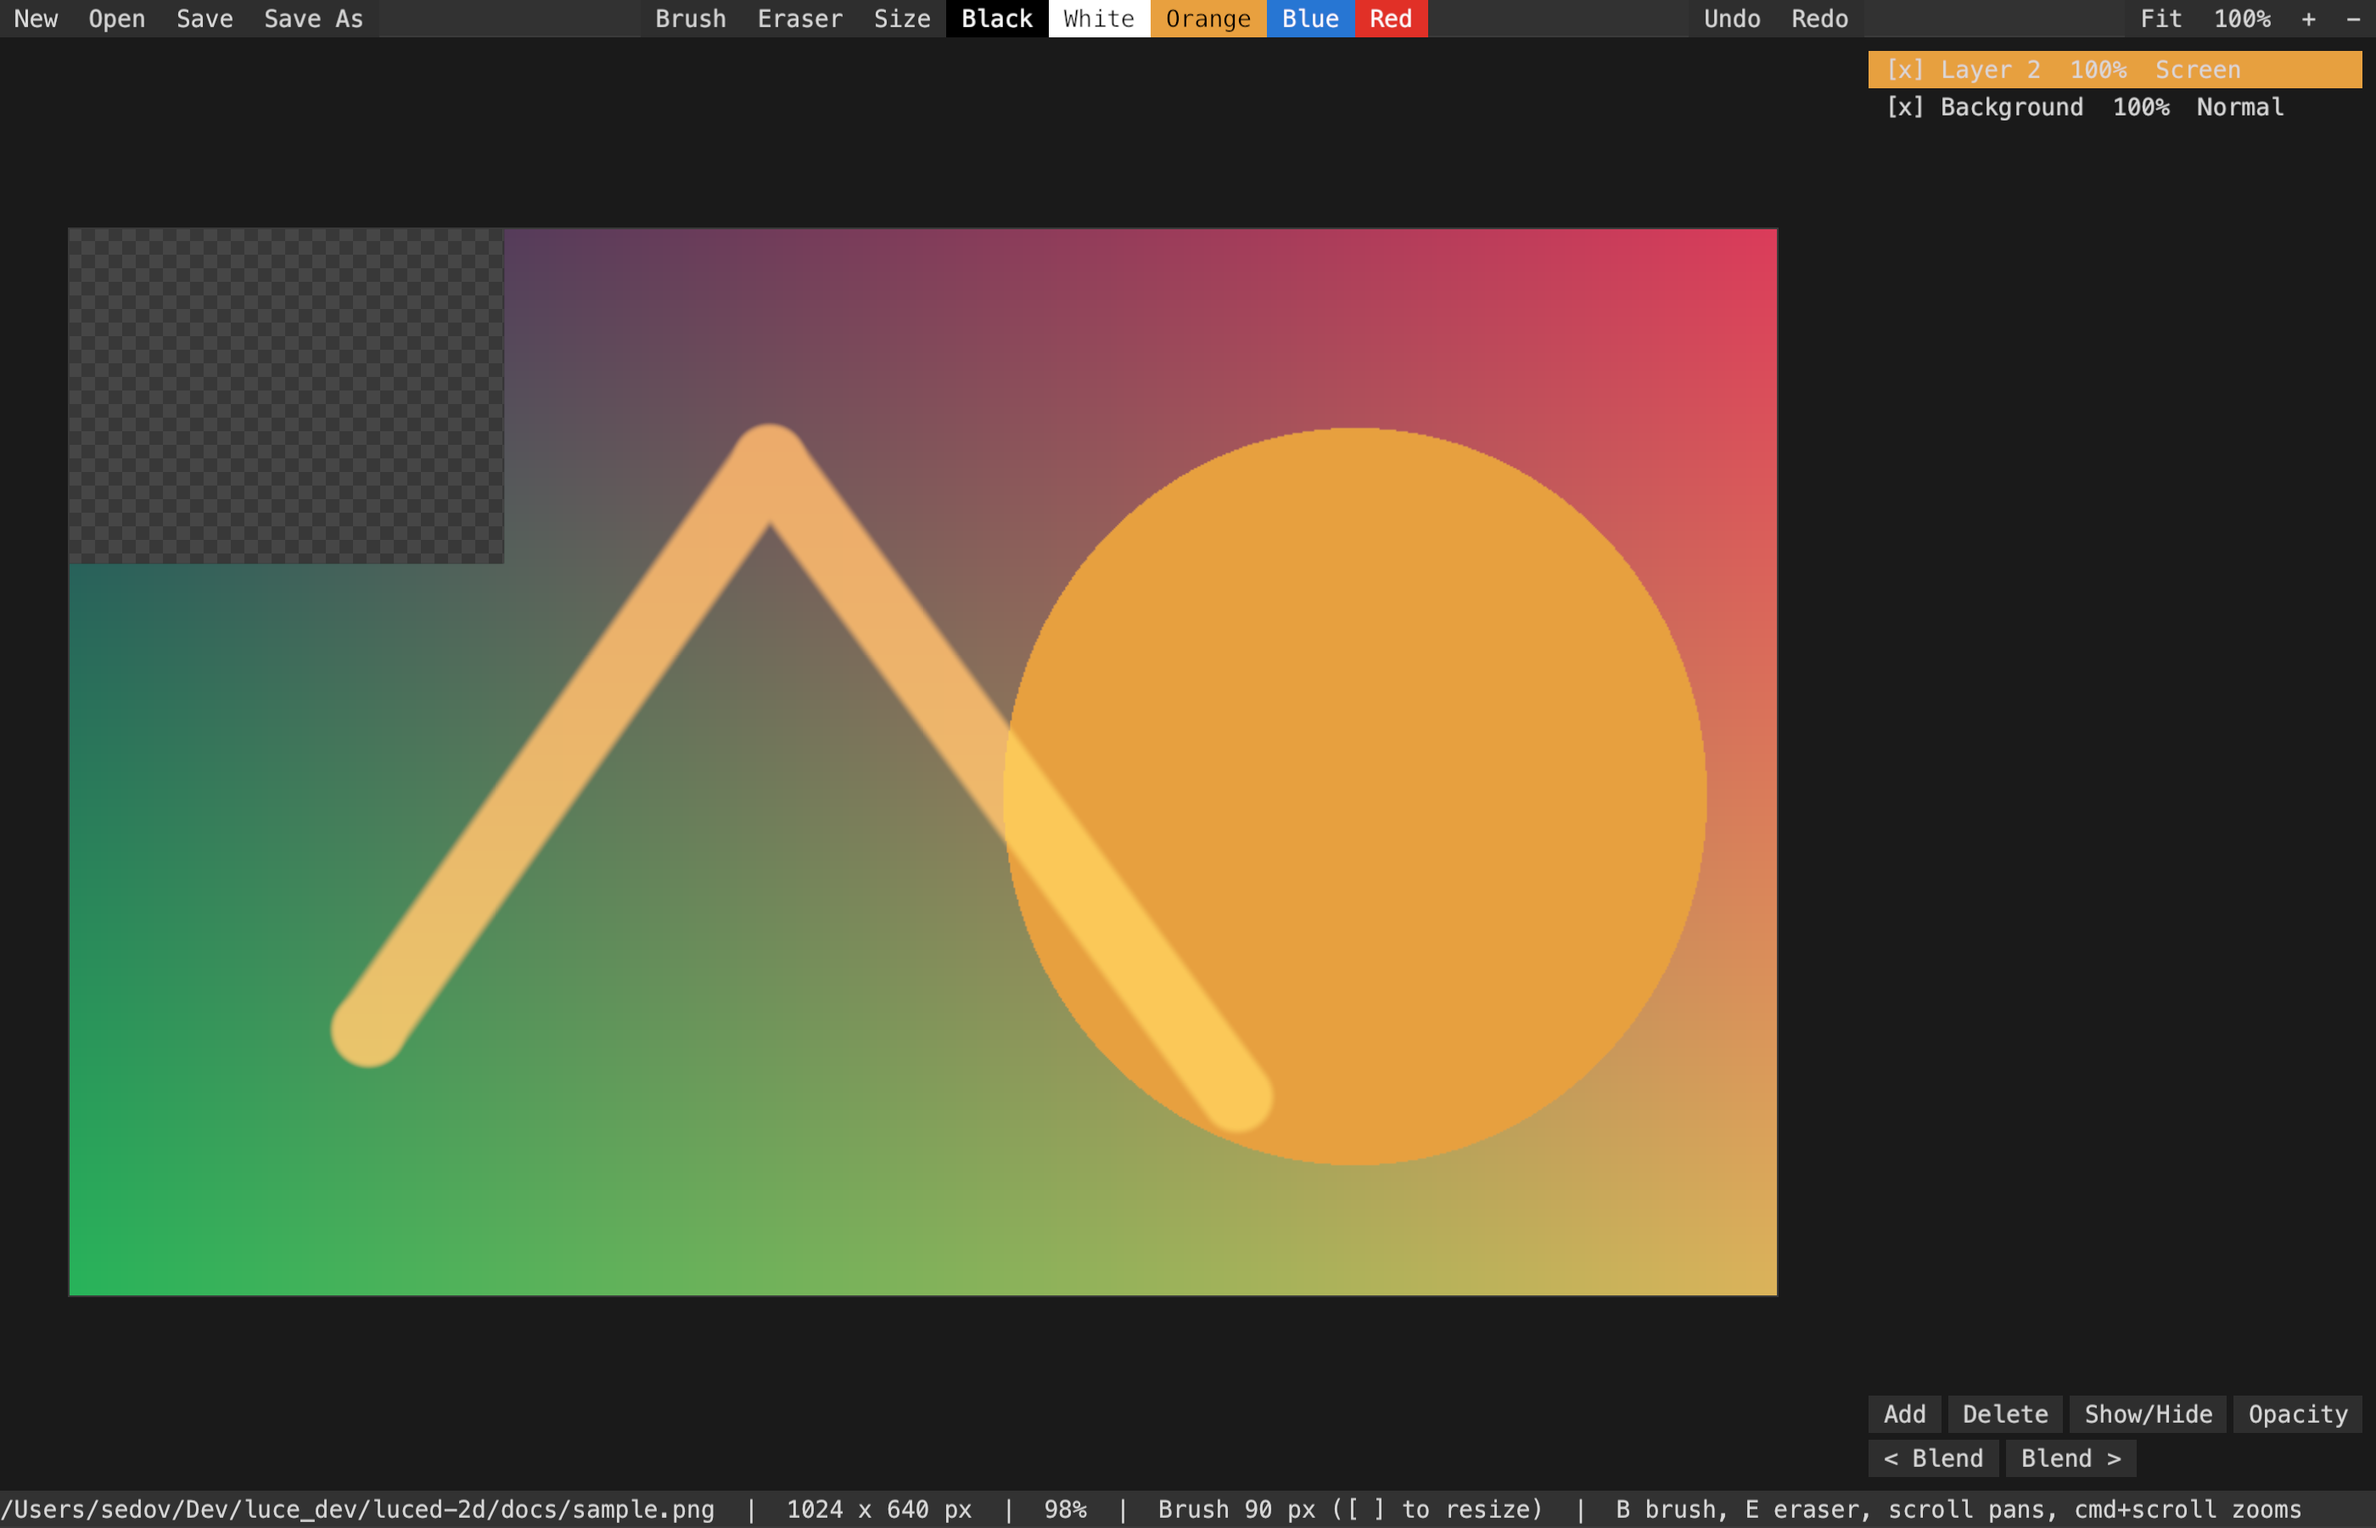
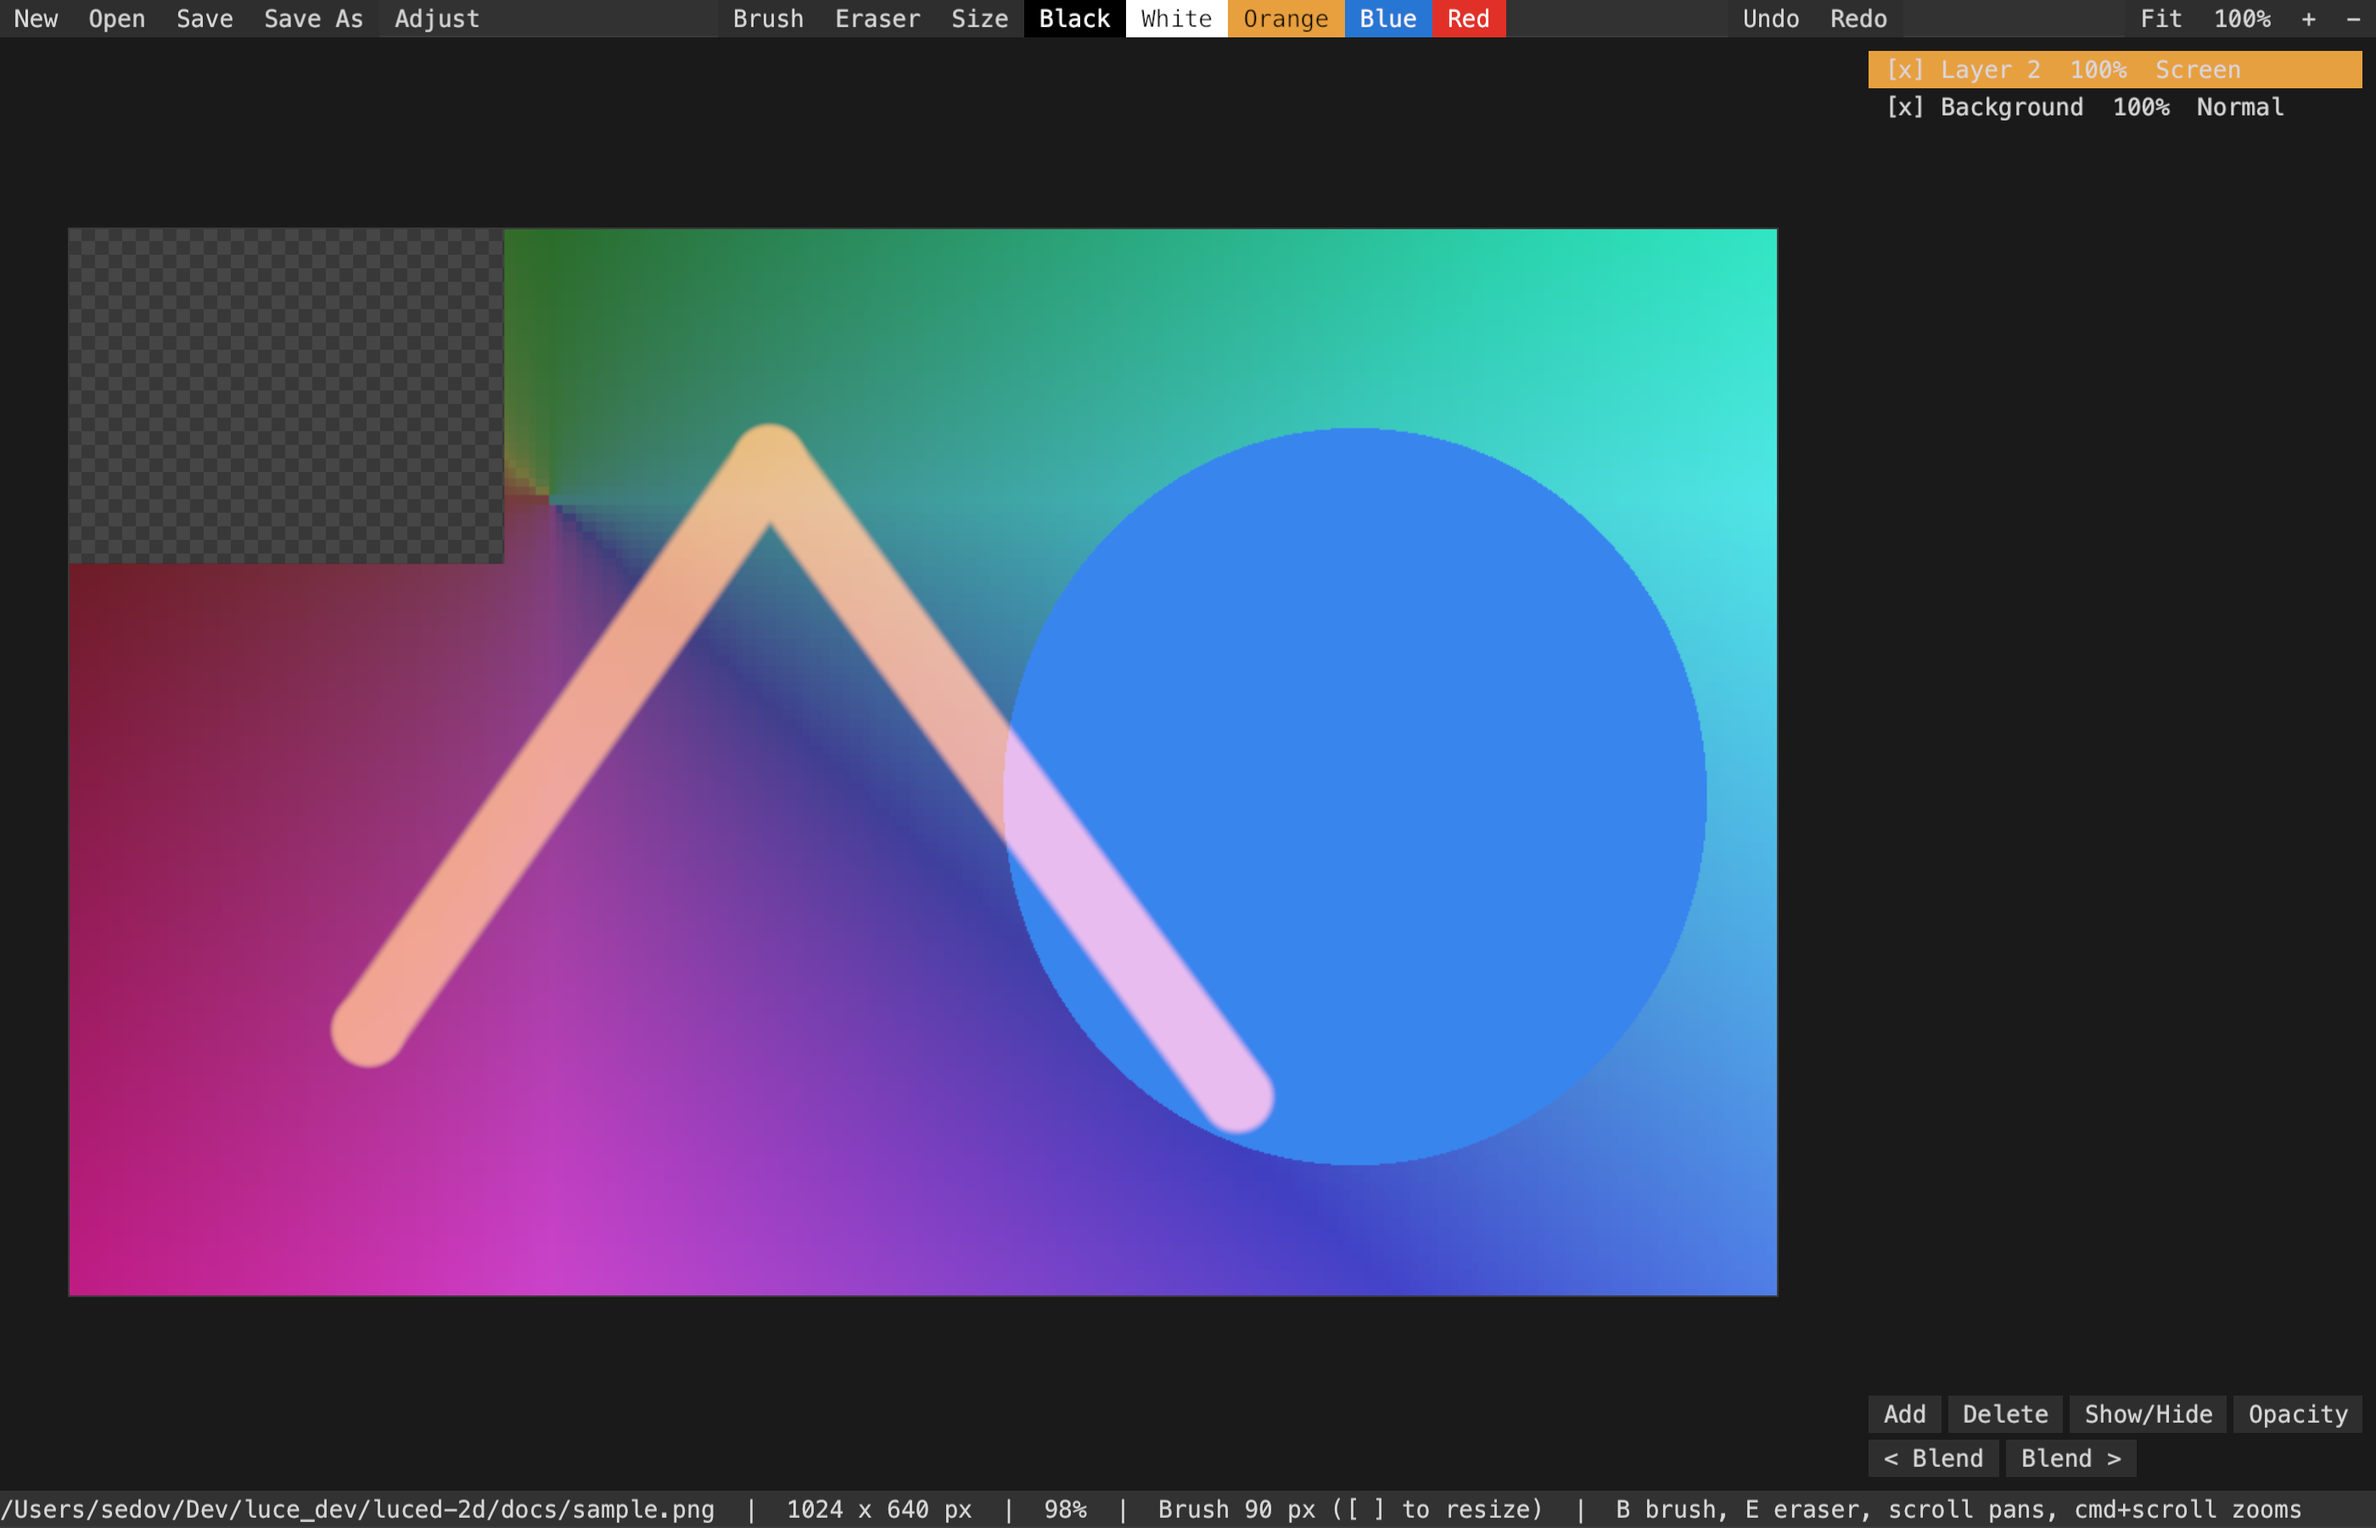
Adjust menu: destructive adjustments with prompts
Claude-Session: https://claude.ai/code/session_01KSvf935cywg8wGYHPcyZf9

diff --git a/tools/preview.py b/tools/preview.py
@@ -90,6 +90,9 @@ pub func main(arguments: list[str]) -> int!:
             editor.workspace.end_stroke()
             editor.workspace.erasing = false
             editor.workspace.cycle_blend(6)
+            editor.workspace.select(0)
+            editor.workspace.adjust(1, [0.5, 0.3, 0.0])
+            editor.workspace.select(1)
             editor.panels.refresh()
         if captured:
             editor.app.stop()

diff --git a/README.md b/README.md
@@ -18,7 +18,11 @@ the order of work are in [docs/DESIGN.md](docs/DESIGN.md).
   edges and no dab artefacts; undo and redo of strokes.
 - Pan with scroll or space-drag, zoom about the pointer with cmd/ctrl-scroll,
   `+`/`-`, Fit and 100%; pixels stay crisp when magnified.
-- Saves the flattened document to PNG, JPEG or TIFF.
+- An Adjust menu with destructive adjustments: brightness/contrast, hue/
+  saturation/lightness, invert, levels, desaturate, threshold, posterize —
+  all undoable.
+- Opens and saves through the desktop's file dialogs; saves the flattened
+  document to PNG, JPEG or TIFF.
 
 ## Build and run
 
